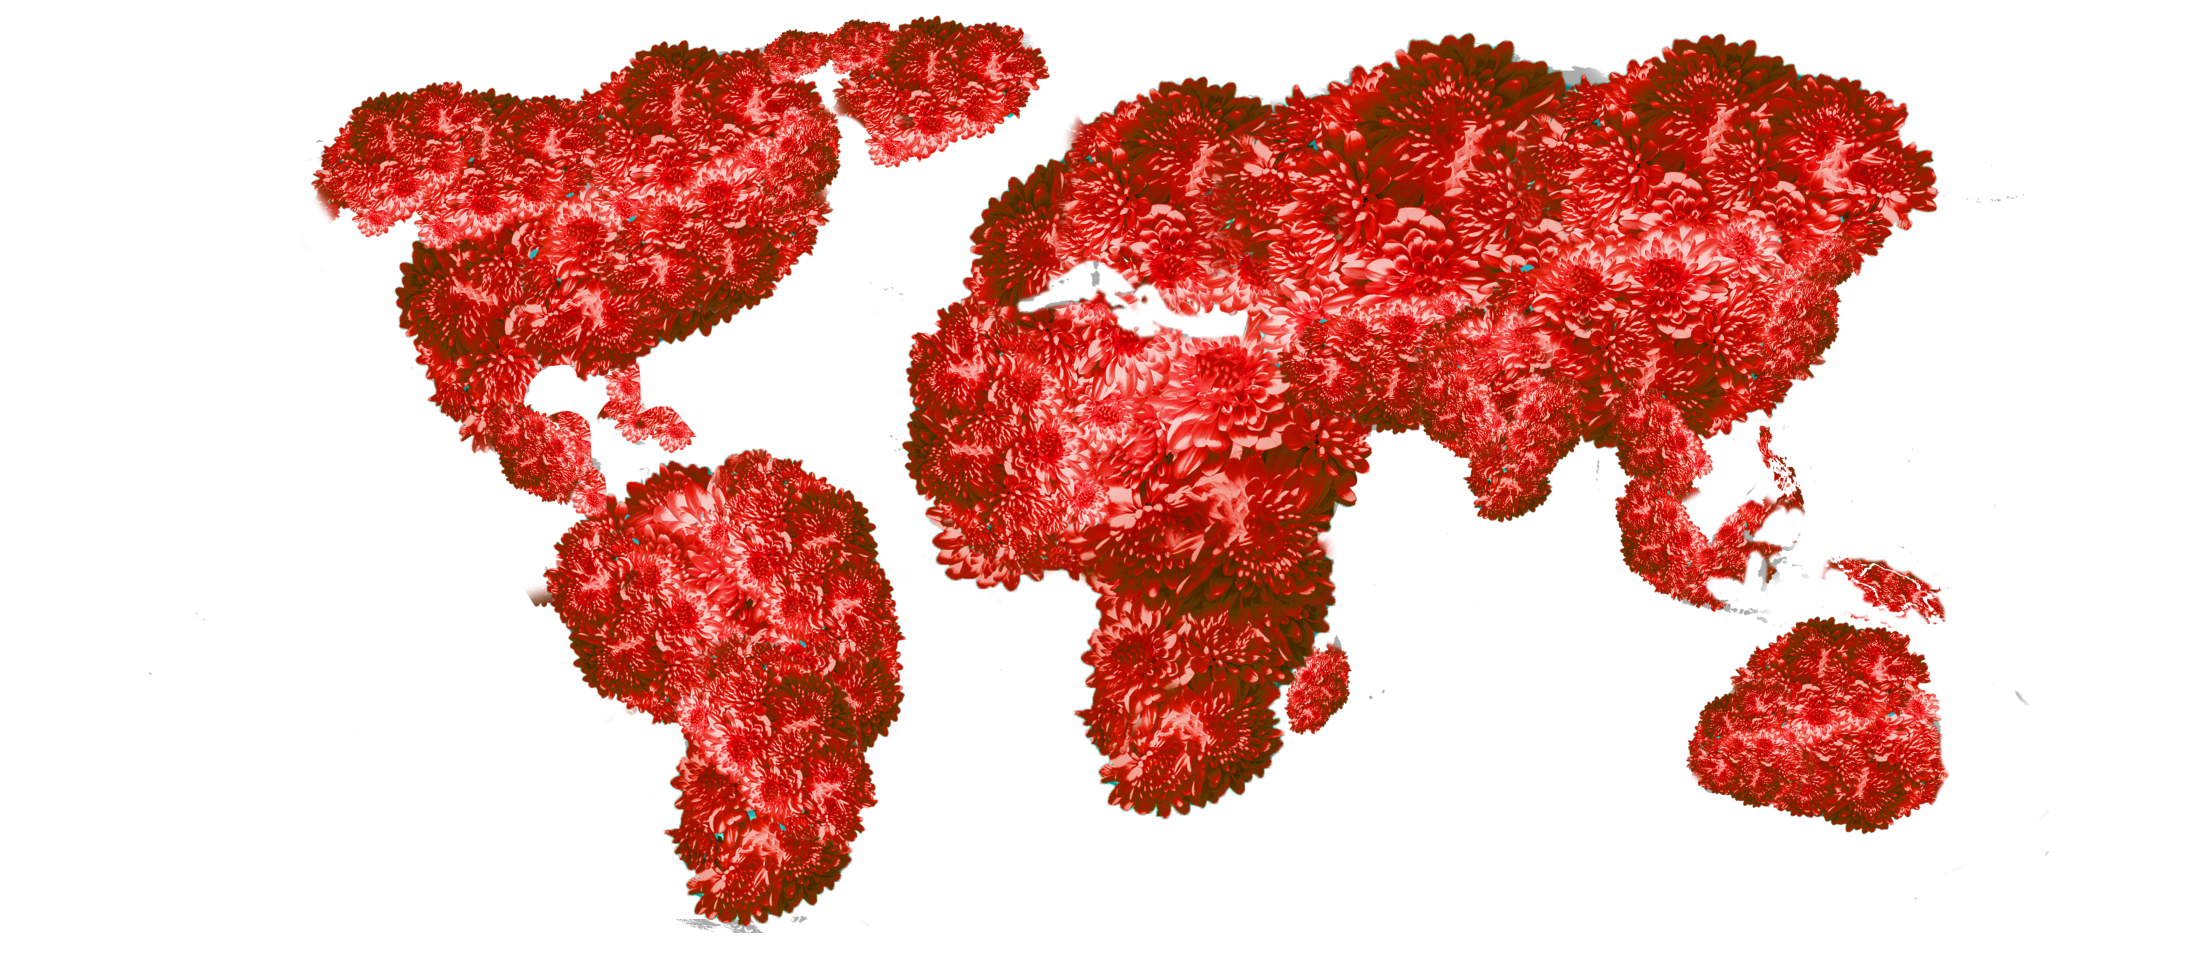
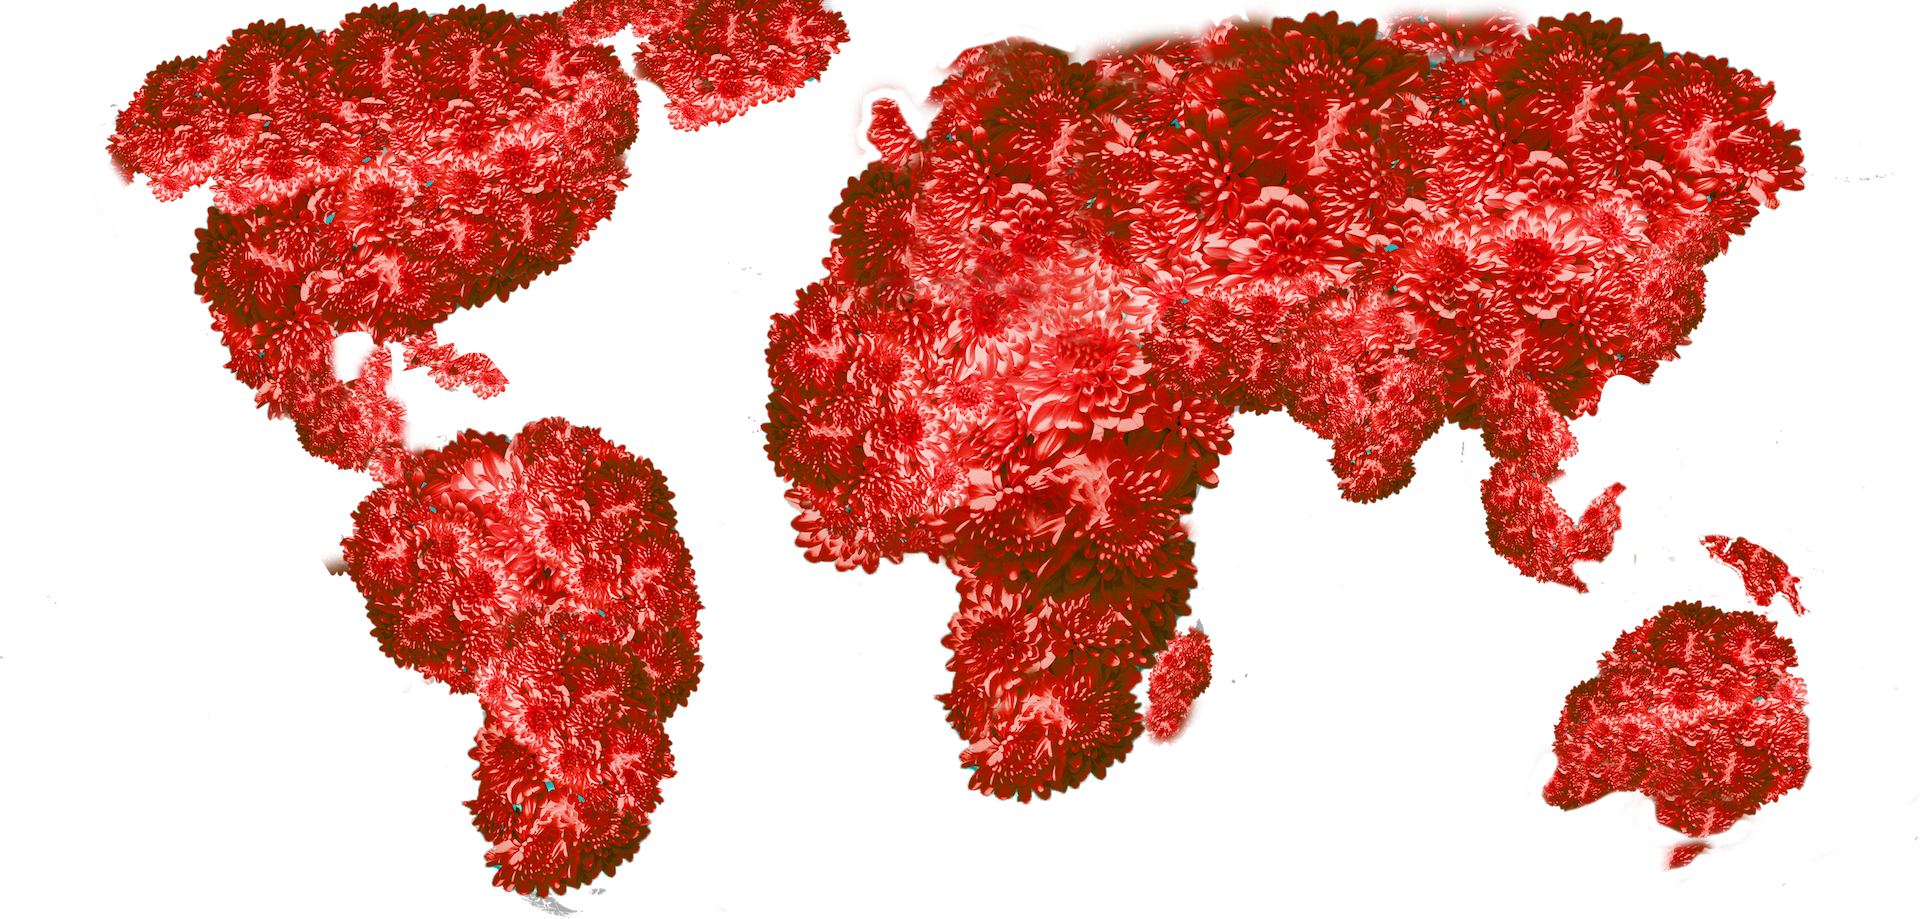
add new map

diff --git a/src/pages/your-love-map.js b/src/pages/your-love-map.js
@@ -9,6 +9,10 @@ import oceanBG from "../assets/images/Flowers_White.jpg";
 import earthBG from "../assets/images/Flowers_Red.png";
 import WORLD_TOPO_JSON from "../assets/geoJsons/world.topo.json";
 
+const BG_IMAGE_WIDTH = 1920;
+const BG_IMAGE_HEIGHT = 919;
+const BG_IMAGE_RATIO = BG_IMAGE_WIDTH / BG_IMAGE_HEIGHT;
+
 const GlobalStyle = createGlobalStyle`
   html {
     box-sizing: border-box;
@@ -34,8 +38,10 @@ const AnimatedSvg = styled.svg`
   background-color: transparent;
   background-image: url(${earthBG});
   background-size: contain;
-  background-position: top center;
+  background-position: top 30% left 38%;
   background-repeat: no-repeat;
+  /* background-size: ${({ width }) => width}px ${({ width }) => width / BG_IMAGE_RATIO }px; */
+  background-size: 95%;
 
   fill: transparent;
   will-change: transform, stroke-width;
@@ -47,12 +53,11 @@ const AnimatedSvg = styled.svg`
 
   
   path {
-    /* stroke: black;
-    stroke-width: 2px; */
+    stroke: black;
+    stroke-width: 2px; 
   }
 
   path:hover {
-    
     will-change: stroke-width;
     transition: all 0.5s ease-in;
     fill: white;
@@ -118,9 +123,7 @@ const pathGenerator = geo.geoPath().projection(projection);
 
 const originalBounds = pathGenerator.bounds(TOPO_COUNTRIES);
 
-const BG_IMAGE_WIDTH = 2100;
-const BG_IMAGE_HEIGHT = 960;
-const BG_IMAGE_RATIO = BG_IMAGE_WIDTH / BG_IMAGE_HEIGHT;
+
 
 const SvgMap = (props) => {
   const svgRef = useRef();
@@ -135,7 +138,7 @@ const SvgMap = (props) => {
     if (!featureRef.current) setCentroid([width / 2, height / 2]);
   }, [width, height]);
 
-  projection.fitExtent([[0, 30], [width, height + 30]], TOPO_COUNTRIES);
+  projection.fitExtent([[0, 0], [width, height]], TOPO_COUNTRIES);
 
   const onFeatureClick = (feature) => {
     const isSame = feature === featureRef.current;
